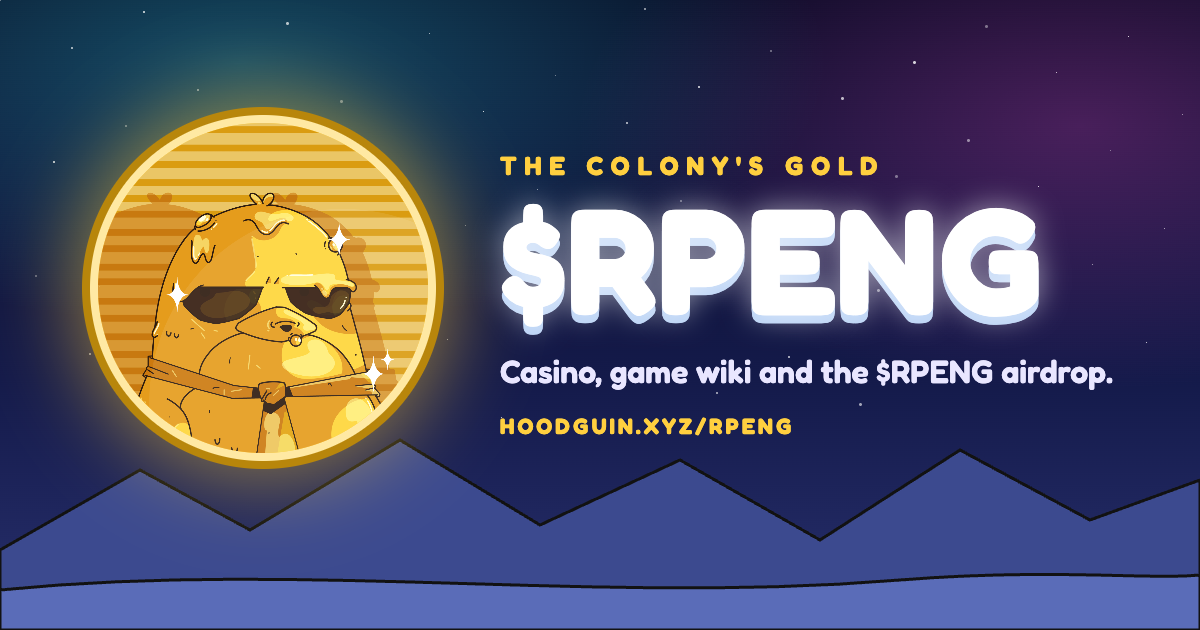
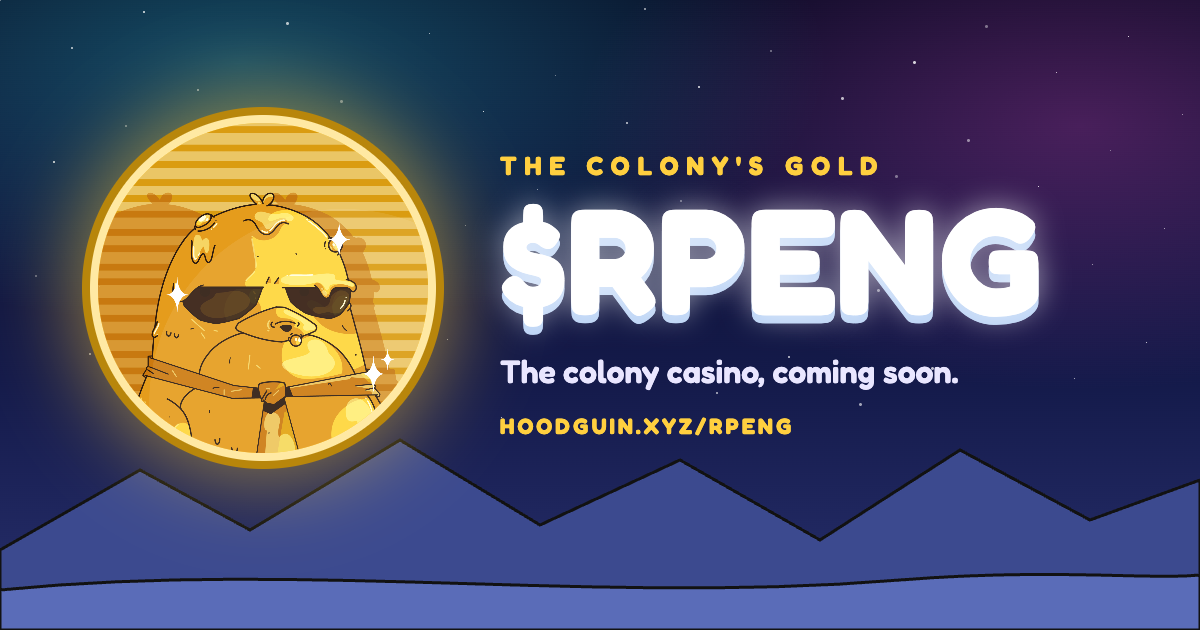
Hide the airdrop and dollar values for now; upgrade Next.js to 16.4.6
- AIRDROP_OPEN = false: airdrop section, buttons, copy and share card hidden;
  the API takes no new applications (saved ones are kept)
- RATE_KNOWN = false: no dollar values or rate anywhere until $RPENG launches;
  the rate reads "Soon" and chips read "play chips"
- Next.js 16.4.3 → 16.4.6 (security fix; 16.4.3 builds now fail)
- Scrolled nav bar is solid so page text doesn't show through

Changed region(s): [[0.4008, 0.573, 0.925, 0.6333]]

diff --git a/src/components/casino/Wiki.tsx b/src/components/casino/Wiki.tsx
@@ -1,7 +1,7 @@
 "use client";
 
 import { useEffect, useState, type ReactNode } from "react";
-import { MIN_BET, RATE, START_CHIPS, fmtTok, fmtUsd } from "@/lib/rpeng";
+import { MIN_BET, RATE, RATE_KNOWN, START_CHIPS, fmtTok, fmtUsd } from "@/lib/rpeng";
 import { FLIP_PAYS } from "./CoinFlip";
 import { FOUR_TIERS, TARGET } from "./FourSeconds";
 import { OU_PAYS } from "./OverUnder";
@@ -78,13 +78,21 @@ const ARTICLES: Article[] = [
         <p>The colony casino is where Guins kill time while they wait for $RPENG. You play with free <b>play chips</b>, not real tokens, so nothing here costs or pays real money.</p>
         <H>Your first round</H>
         <ol className="grid list-decimal gap-1.5 pl-5">
-          <li>You start with <b>{fmtTok(START_CHIPS)}</b> chips (≈ {fmtUsd(START_CHIPS)}).</li>
+          <li>You start with <b>{fmtTok(START_CHIPS)}</b> play chips{RATE_KNOWN && ` (≈ ${fmtUsd(START_CHIPS)})`}.</li>
           <li>Pick a game from the four tabs above the table.</li>
           <li>Tap a poker chip under the table to set your bet. ½, 2× and Max adjust it.</li>
           <li>Play. Your bet leaves your balance when the round starts, and any win lands back on it when the round ends.</li>
         </ol>
         <H>Reading the numbers</H>
-        <p>Big amounts are shortened: <b>K</b> = thousand, <b>M</b> = million, <b>B</b> = billion. The dollar figure next to an amount uses the reference rate <b>{RATE.tokens.toLocaleString("en-US")} $RPENG = {fmtUsd(RATE.tokens)}</b>, so 1M ≈ {fmtUsd(1_000_000)} and 50M ≈ {fmtUsd(50_000_000)}.</p>
+        <p>Big amounts are shortened: <b>K</b> = thousand, <b>M</b> = million, <b>B</b> = billion.
+          {RATE_KNOWN ? (
+            <>
+              {" "}The dollar figure next to an amount uses the reference rate <b>{RATE.tokens.toLocaleString("en-US")} $RPENG = {fmtUsd(RATE.tokens)}</b>, so 1M ≈ {fmtUsd(1_000_000)} and 50M ≈ {fmtUsd(50_000_000)}.
+            </>
+          ) : (
+            " There are no dollar values: $RPENG hasn't launched, so it has no price yet."
+          )}
+        </p>
         <H>Which game should I play?</H>
         <Table
           head={["Game", "Win chance", "Top payout", "Return", "Skill"]}
@@ -209,7 +217,7 @@ const ARTICLES: Article[] = [
           ["House edge", "The other side of return: the small share the house keeps. 97% return is a 3% edge."],
           ["Win chance", "How often a bet wins. It's different from return, because rare wins pay more."],
           ["Top up", `Resets your balance to ${fmtTok(START_CHIPS)} once it falls under ${fmtTok(MIN_BET)}.`],
-          ["Reference rate", `${RATE.tokens.toLocaleString("en-US")} $RPENG = ${fmtUsd(RATE.tokens)}. Used to show dollar values, nothing else.`],
+          ...(RATE_KNOWN ? [["Reference rate", `${RATE.tokens.toLocaleString("en-US")} $RPENG = ${fmtUsd(RATE.tokens)}. Used to show dollar values, nothing else.`]] : []),
         ].map(([k, v]) => (
           <div key={k} className="well px-4 py-3">
             <dt className="font-display text-sm font-bold text-gold">{k}</dt>
@@ -226,12 +234,13 @@ const ARTICLES: Article[] = [
     body: (
       <div className="grid gap-2">
         {[
-          ["Are these real $RPENG?", "No. Chips are play money for fun. They can't be bought, withdrawn, swapped or cashed out, and they have nothing to do with the airdrop."],
+          ["Are these real $RPENG?", "No. Chips are play money for fun. They can't be bought, withdrawn, swapped or cashed out, and they have nothing to do with real $RPENG."],
           ["Where is my balance saved?", "In this browser only. Clearing site data, a private window or another device starts you fresh."],
           ["Is it rigged?", "Every result comes from your browser's secure random number generator, the same kind used for passwords. The odds in this wiki are exact."],
           ["Can I lose more than my balance?", "No. You can't bet more than you have, and you can top up whenever you drop under the minimum bet."],
-          ["Does playing help my airdrop?", "No. The airdrop is its own application on the $RPENG page, under Claim airdrop."],
-          ["Why do dollar values look so small?", `$RPENG has a huge supply, so each token is worth a tiny fraction of a cent at the reference rate: 1M ≈ ${fmtUsd(1_000_000)}.`],
+          RATE_KNOWN
+            ? ["Why do dollar values look so small?", `$RPENG has a huge supply, so each token is worth a tiny fraction of a cent at the reference rate: 1M ≈ ${fmtUsd(1_000_000)}.`]
+            : ["What's $RPENG worth?", "Nothing yet: it hasn't launched, so it has no price. That's why the casino shows chips and no dollar values."],
         ].map(([q, a]) => (
           <details key={q} className="well group px-4 py-3">
             <summary className="flex cursor-pointer list-none items-center justify-between gap-3 font-semibold">

diff --git a/src/app/rpeng/page.tsx b/src/app/rpeng/page.tsx
@@ -1,6 +1,7 @@
 import type { Metadata } from "next";
 import Link from "next/link";
 import { Airdrop } from "@/components/Airdrop";
+import { AIRDROP_OPEN } from "@/lib/airdrop";
 import { Footer } from "@/components/Footer";
 import { GoldMedallion } from "@/components/GoldMedallion";
 import { Intro } from "@/components/Intro";
@@ -8,12 +9,14 @@ import { ArrowIcon, Nav } from "@/components/Nav";
 import { Reveal } from "@/components/Reveal";
 import { Scene } from "@/components/Scene";
 import { Casino } from "@/components/casino/Casino";
-import { RATE, fmtTok, fmtUsd } from "@/lib/rpeng";
+import { RATE, RATE_KNOWN, fmtTok, fmtUsd } from "@/lib/rpeng";
 
-const DESC = "The colony's gold. Apply for the $RPENG airdrop and preview the colony casino: Coin Flip, 4 Seconds, Over/Under 7 and Guin Slots, coming soon.";
+const DESC = AIRDROP_OPEN
+  ? "The colony's gold. Apply for the $RPENG airdrop and preview the colony casino: Coin Flip, 4 Seconds, Over/Under 7 and Guin Slots, coming soon."
+  : "The colony's gold. Preview the colony casino: Coin Flip, 4 Seconds, Over/Under 7 and Guin Slots, coming soon.";
 const SHARE = { url: "/og-rpeng.png", width: 1200, height: 630, alt: "$RPENG: the colony's gold" };
 export const metadata: Metadata = {
-  title: "$RPENG · Airdrop & casino",
+  title: AIRDROP_OPEN ? "$RPENG · Airdrop & casino" : "$RPENG · The colony casino",
   description: DESC,
   alternates: { canonical: "/rpeng" },
   openGraph: { type: "website", url: "/rpeng", siteName: "Guins", title: "$RPENG · The colony's gold", description: DESC, images: [SHARE] },
@@ -24,17 +27,17 @@ const FACTS = [
   ["Ticker", "$RPENG"],
   ["Chain", "TBA"],
   ["Contract", "Soon"],
-  ["Rate", `${fmtTok(RATE.tokens)} ≈ ${fmtUsd(RATE.tokens)}`],
+  ["Rate", RATE_KNOWN ? `${fmtTok(RATE.tokens)} ≈ ${fmtUsd(RATE.tokens)}` : "Soon"],
 ];
 
-// Same world as the home page: art first, fly through the ice, then the airdrop and the casino.
+// Same world as the home page: art first, fly through the ice, then the airdrop (when open) and the casino.
 export default function RpengPage() {
   return (
     <>
       <Scene dark moon={[0.14, 0.06]} />
       <Nav />
       <main>
-        <Intro eyebrow="The colony's gold" title="$RPENG" tagline="Airdrop · Casino · Wiki" next="#casino" art={<GoldMedallion className="mb-[3vh] w-[clamp(7rem,min(20vw,22vh),15rem)]" />} />
+        <Intro eyebrow="The colony's gold" title="$RPENG" tagline={AIRDROP_OPEN ? "Airdrop · Casino · Wiki" : "Casino · Wiki · Coming soon"} next="#casino" art={<GoldMedallion className="mb-[3vh] w-[clamp(7rem,min(20vw,22vh),15rem)]" />} />
 
         <div className="casino">
           {/* One compact bar instead of a second big heading: the intro already said it */}
@@ -49,21 +52,29 @@ export default function RpengPage() {
                 ))}
               </dl>
               <div className="flex flex-wrap gap-2">
-                <a href="#airdrop" className="btn btn-accent btn-sm">Claim airdrop <ArrowIcon /></a>
-                <a href="#play" className="btn btn-ghost btn-sm">Games</a>
+                {AIRDROP_OPEN ? (
+                  <>
+                    <a href="#airdrop" className="btn btn-accent btn-sm">Claim airdrop <ArrowIcon /></a>
+                    <a href="#play" className="btn btn-ghost btn-sm">Games</a>
+                  </>
+                ) : (
+                  <a href="#play" className="btn btn-accent btn-sm">See the games <ArrowIcon /></a>
+                )}
                 <Link href="/rpeng/wiki" className="btn btn-ghost btn-sm">Wiki</Link>
               </div>
             </Reveal>
           </section>
 
-          {/* The airdrop first: it's the thing you can do today */}
+          {/* The airdrop first: it's the thing you can do today (hidden while closed) */}
+          {AIRDROP_OPEN && (
           <section id="airdrop" className="mx-auto mt-12 max-w-5xl scroll-mt-24 px-4 sm:px-8">
             <Reveal>
               <Airdrop />
             </Reveal>
           </section>
+          )}
 
-          <section id="play" className="mx-auto mt-16 max-w-5xl scroll-mt-24 px-4 pb-16 sm:px-8">
+          <section id="play" className="mx-auto mt-12 max-w-5xl scroll-mt-24 px-4 pb-16 sm:px-8">
             <Reveal className="mb-6">
               <p className="label label-accent">The colony casino · coming soon</p>
               <h2 className="mt-2 font-display text-[clamp(2rem,5vw,3.2rem)] leading-none font-bold uppercase">Flip. Stop. Roll. Spin.</h2>

diff --git a/src/components/casino/Casino.tsx b/src/components/casino/Casino.tsx
@@ -4,7 +4,7 @@ import Link from "next/link";
 import { Icon, type IconName } from "../Icon";
 import { ChainLock } from "./ChainLock";
 import { useEffect, useRef, useState } from "react";
-import { MIN_BET, START_CHIPS, fmtTok, fmtUsd } from "@/lib/rpeng";
+import { MIN_BET, RATE_KNOWN, START_CHIPS, fmtTok, fmtUsd } from "@/lib/rpeng";
 import { CoinFlip, FLIP_PAYS } from "./CoinFlip";
 import { FOUR_TIERS, FourSeconds } from "./FourSeconds";
 import { OU_PAYS, OverUnder } from "./OverUnder";
@@ -98,7 +98,7 @@ export function Casino() {
         <div>
           <div className="label">your chips</div>
           <div key={balance} className="pop-in font-mono text-3xl font-bold text-gold tabular-nums sm:text-4xl">{fmtTok(balance)}</div>
-          <div className="font-mono text-xs text-dim">≈ {fmtUsd(balance)} · {balance.toLocaleString("en-US")} $RPENG</div>
+          <div className="font-mono text-xs text-dim">{RATE_KNOWN ? `≈ ${fmtUsd(balance)} · ` : ""}{balance.toLocaleString("en-US")} play chips</div>
         </div>
         {broke ? (
           <button className="btn btn-accent btn-sm" onClick={() => setBalance(START_CHIPS)}>
@@ -153,7 +153,7 @@ export function Casino() {
             <div key={flash.id} className="pop-in">
               <p className={`font-display text-2xl font-bold ${flash.net > 0 ? "text-mint" : flash.net === 0 ? "text-fg" : "text-flame"}`}>
                 {flash.net > 0 ? `+${fmtTok(flash.net)}` : flash.net === 0 ? "Push" : `−${fmtTok(-flash.net)}`}
-                <span className="ml-2 font-mono text-sm opacity-70">{flash.net !== 0 && `(${flash.net > 0 ? "+" : "−"}${fmtUsd(Math.abs(flash.net))})`}</span>
+                <span className="ml-2 font-mono text-sm opacity-70">{RATE_KNOWN && flash.net !== 0 && `(${flash.net > 0 ? "+" : "−"}${fmtUsd(Math.abs(flash.net))})`}</span>
               </p>
               <p className="text-sm text-dim">{flash.note}</p>
             </div>
@@ -166,7 +166,7 @@ export function Casino() {
         <div>
           <div className="label">bet</div>
           <div className="font-mono text-xl font-bold">
-            {fmtTok(bet)} <span className="text-sm font-normal text-dim">≈ {fmtUsd(bet)}</span>
+            {fmtTok(bet)} {RATE_KNOWN && <span className="text-sm font-normal text-dim">≈ {fmtUsd(bet)}</span>}
           </div>
         </div>
         <div className="flex flex-wrap items-center gap-2">

diff --git a/src/components/casino/Rules.tsx b/src/components/casino/Rules.tsx
@@ -1,7 +1,7 @@
 "use client";
 
 import { Icon, type IconName } from "../Icon";
-import { MIN_BET, RATE, START_CHIPS, fmtTok, fmtUsd } from "@/lib/rpeng";
+import { MIN_BET, RATE, RATE_KNOWN, START_CHIPS, fmtTok, fmtUsd } from "@/lib/rpeng";
 import { FLIP_PAYS } from "./CoinFlip";
 import { FOUR_TIERS } from "./FourSeconds";
 import { OU_PAYS } from "./OverUnder";
@@ -41,11 +41,11 @@ export function Rules() {
     <div>
       <ol className="well grid gap-3 p-5 text-sm sm:text-base">
         {[
-          `Everyone starts with ${fmtTok(START_CHIPS)} play chips (≈ ${fmtUsd(START_CHIPS)}).`,
+          `Everyone starts with ${fmtTok(START_CHIPS)} play chips${RATE_KNOWN ? ` (≈ ${fmtUsd(START_CHIPS)})` : ""}.`,
           `Pick a game, choose your bet with the chips under the table (min ${fmtTok(MIN_BET)}), then play.`,
           "Your bet comes off your balance when the round starts. A win pays your bet × the payout, so a 2× win on 10M gives back 20M (10M profit).",
           `Run out? Top back up to ${fmtTok(START_CHIPS)} any time your balance drops under ${fmtTok(MIN_BET)}.`,
-          `Dollar values use the reference rate ${RATE.tokens.toLocaleString("en-US")} $RPENG = ${fmtUsd(RATE.tokens)}. It's for display only.`,
+          RATE_KNOWN ? `Dollar values use the reference rate ${RATE.tokens.toLocaleString("en-US")} $RPENG = ${fmtUsd(RATE.tokens)}. It's for display only.` : "Play chips have no value: $RPENG hasn't launched yet, so nothing here is priced.",
           "Every outcome is decided by your browser's secure random number generator. 4 Seconds is the only one where skill counts.",
         ].map((t, i) => (
           <li key={i} className="flex gap-3">

diff --git a/src/app/admin/AdminPanel.tsx b/src/app/admin/AdminPanel.tsx
@@ -90,7 +90,7 @@ export function AdminPanel() {
         </p>
       )}
       {field("pinned", "Pinned post", "Whitelist steps 03 and 04: like, repost and reply.", pinned, setPinned, links.pinnedPost, links.pinnedId)}
-      {field("airdrop", "Airdrop post", "$RPENG airdrop: comment, retweet and quote. Quotes are checked against this post.", airdrop, setAirdrop, links.airdropPost, links.airdropId)}
+      {field("airdrop", "Airdrop post", "$RPENG airdrop (hidden on the site for now): comment, retweet and quote. Quotes are checked against this post.", airdrop, setAirdrop, links.airdropPost, links.airdropId)}
       <div className="flex flex-wrap items-center gap-3">
         <button className="btn btn-accent" disabled={busy || !canSave}>{busy ? "Saving…" : "Save links"}</button>
         <a href={`/api/admin/export?key=${encodeURIComponent(key)}`} className="btn btn-ghost">Download sign-ups (CSV)</a>

diff --git a/src/components/Nav.tsx b/src/components/Nav.tsx
@@ -87,7 +87,7 @@ export function Nav() {
   }, []);
 
   return (
-    <header className={`fixed inset-x-0 top-0 z-50 transition-colors duration-300 ${solid || open ? "border-b border-line bg-void/95" : "border-b border-transparent bg-gradient-to-b from-void/75 to-transparent"}`}>
+    <header className={`fixed inset-x-0 top-0 z-50 transition-colors duration-300 ${solid || open ? "border-b border-line bg-void" : "border-b border-transparent bg-gradient-to-b from-void/75 to-transparent"}`}>
       <nav className="mx-auto grid h-20 max-w-6xl grid-cols-[1fr_auto] items-center gap-4 px-4 sm:px-8 md:grid-cols-[1fr_auto_1fr]">
         <Link href="/" className="flex items-center gap-3 justify-self-start font-display text-xl font-bold" aria-label="Guins home">
           <PenguinMark />

diff --git a/src/app/layout.tsx b/src/app/layout.tsx
@@ -19,7 +19,7 @@ export const metadata: Metadata = {
   title: { default: TITLE, template: "%s · Guins" },
   description: DESCRIPTION,
   applicationName: "Guins",
-  keywords: ["Guins", "Hoodguins", "$RPENG", "penguin", "NFT", "PFP", "colony", "whitelist", "allowlist", "airdrop"],
+  keywords: ["Guins", "Hoodguins", "$RPENG", "penguin", "NFT", "PFP", "colony", "whitelist", "allowlist", "free mint"],
   alternates: { canonical: "/" },
   openGraph: { type: "website", url: "/", siteName: "Guins", locale: "en_US", title: TITLE, description: DESCRIPTION, images: [SHARE] },
   twitter: { card: "summary_large_image", site: "@hoodguins", creator: "@hoodguins", title: TITLE, description: DESCRIPTION, images: [SHARE] },

diff --git a/src/app/api/airdrop/route.ts b/src/app/api/airdrop/route.ts
@@ -5,6 +5,7 @@ import { HANDLE, WALLET, X_HANDLE, toPublic } from "@/lib/entry";
 import { hasDatabase, redis, store } from "@/lib/store";
 import { verifyAirdropQrt } from "@/lib/xpost";
 import { getLinks, postId } from "@/lib/links";
+import { AIRDROP_OPEN } from "@/lib/airdrop";
 
 // $RPENG airdrop application. Steps must go in order:
 //   follow                             clicked follow on our X account
@@ -34,6 +35,7 @@ export async function POST(req: Request) {
 }
 
 async function run(req: Request) {
+  if (!AIRDROP_OPEN) return bad("The airdrop application is closed for now.", 403);
   const a = await authed(req);
   if ("error" in a) return a.error;
   const { entry, body } = a;

diff --git a/src/lib/rpeng.ts b/src/lib/rpeng.ts
@@ -1,7 +1,10 @@
-// $RPENG numbers shared by the casino and the airdrop.
+// $RPENG numbers shared by the casino, rules and wiki.
 
-// Reference rate for the dollar value shown next to amounts. Placeholder until the
-// token trades: 100,000,000 $RPENG ≈ $2.00.
+// $RPENG hasn't launched, so it has no price: with RATE_KNOWN false the site shows
+// no dollar values and the rate reads "Soon". After launch, set the real RATE and
+// flip RATE_KNOWN to true to show "≈ $" next to amounts again.
+export const RATE_KNOWN = false;
+// Placeholder: 100,000,000 $RPENG ≈ $2.00
 export const RATE = { tokens: 100_000_000, usd: 2 };
 export const USD_PER_TOKEN = RATE.usd / RATE.tokens;
 

diff --git a/src/lib/airdrop.ts b/src/lib/airdrop.ts
@@ -2,6 +2,10 @@
 
 import { SITE_URL } from "./site";
 
+// The airdrop application on /rpeng. false = hidden everywhere and the API takes no
+// new applications; anything already saved is kept. Set to true to bring it back.
+export const AIRDROP_OPEN = false;
+
 // The airdrop announcement people comment on, retweet and quote. This is the
 // fallback: an admin can set or change it at /admin (src/lib/links.ts).
 export const AIRDROP_POST = "";
